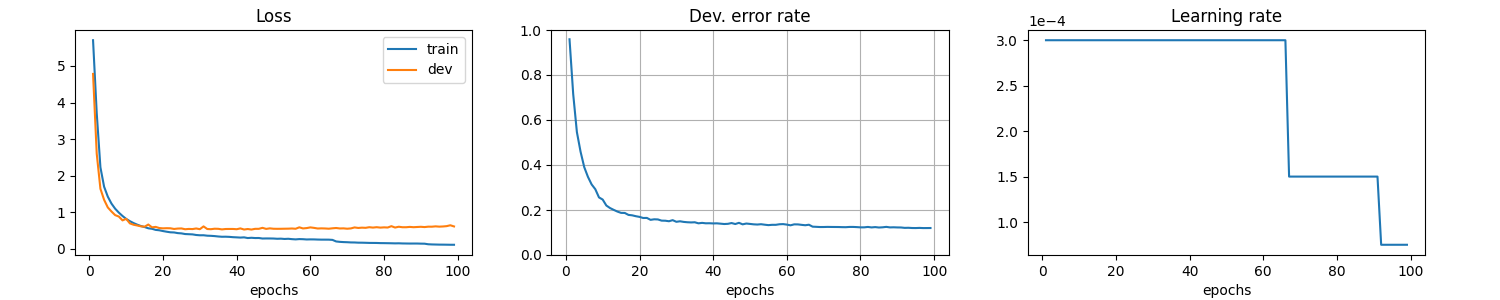
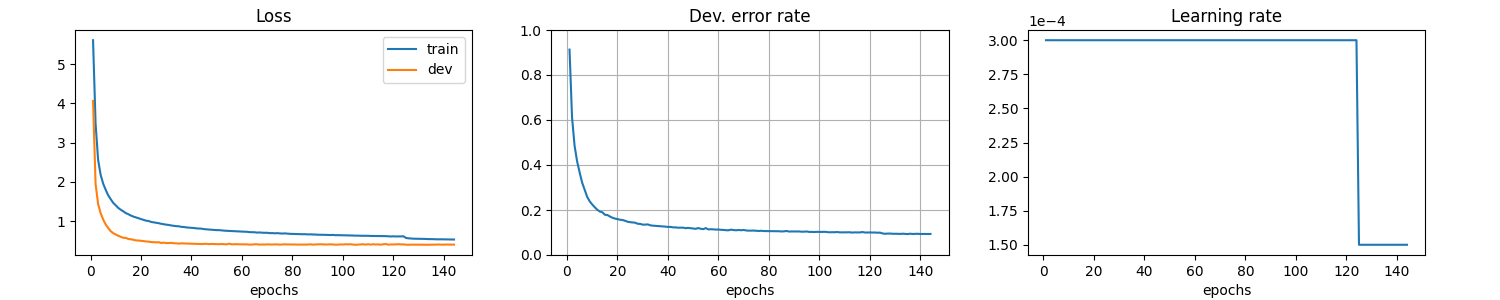
update README.md, figures

diff --git a/eval.py b/eval.py
@@ -12,6 +12,7 @@ def main():
     parser.add_argument('--split', default='test', type=str, help="Specify which split of data to evaluate.")
     parser.add_argument('--gpu_id', default=0, type=int, help="CUDA visible GPU ID. Currently only support single GPU.")
     parser.add_argument('--beams', default=1, type=int, help="Beam Search width.")
+    parser.add_argument('--workers', default=0, type=int, help="How many subprocesses to use for data loading.")
     args = parser.parse_args()
 
     os.environ["CUDA_VISIBLE_DEVICES"] = str(args.gpu_id)
@@ -28,7 +29,7 @@ def main():
         batch_size = cfg['train']['batch_size']
     else:
         batch_size = 1
-    loader = data.load(split=args.split, batch_size=batch_size, )
+    loader = data.load(split=args.split, batch_size=batch_size, workers=args.workers)
 
     # Build model
     tokenizer = torch.load('tokenizer.pth')

diff --git a/README.md b/README.md
@@ -10,7 +10,7 @@ The encoder is a bidirectional GRU-RNN with BatchNorm, and the decoder is anothe
 The acoustic features are 80-dimensional filter banks. We apply **SpecAugment**<sup>[4](#References)</sup> to these features to improve generalization.
 They are also stacked every 3 consecutive frames, so the time resolution is reduced.
 
-With this code you can achieve **~14% CER** on the test set after 100 epochs.
+With this code you can achieve **~10% CER** on the test set after 150 epochs.
 
 ## Usage
 ### Install requirements
@@ -65,9 +65,9 @@ Or you can test random audio from the test set and see the attentions:
 $ python inference.py exp/default/best.pth --beams 5
 
 Predict:
-才 能 申 请 发 行 成 投 债 券
+你 电 池 市 场 也 在 向 好
 Ground-truth:
-才 能 申 请 发 行 城 投 债 券
+锂 电 池 市 场 也 在 向 好
 ```
 ![](./img/Figure_3.png)
 
